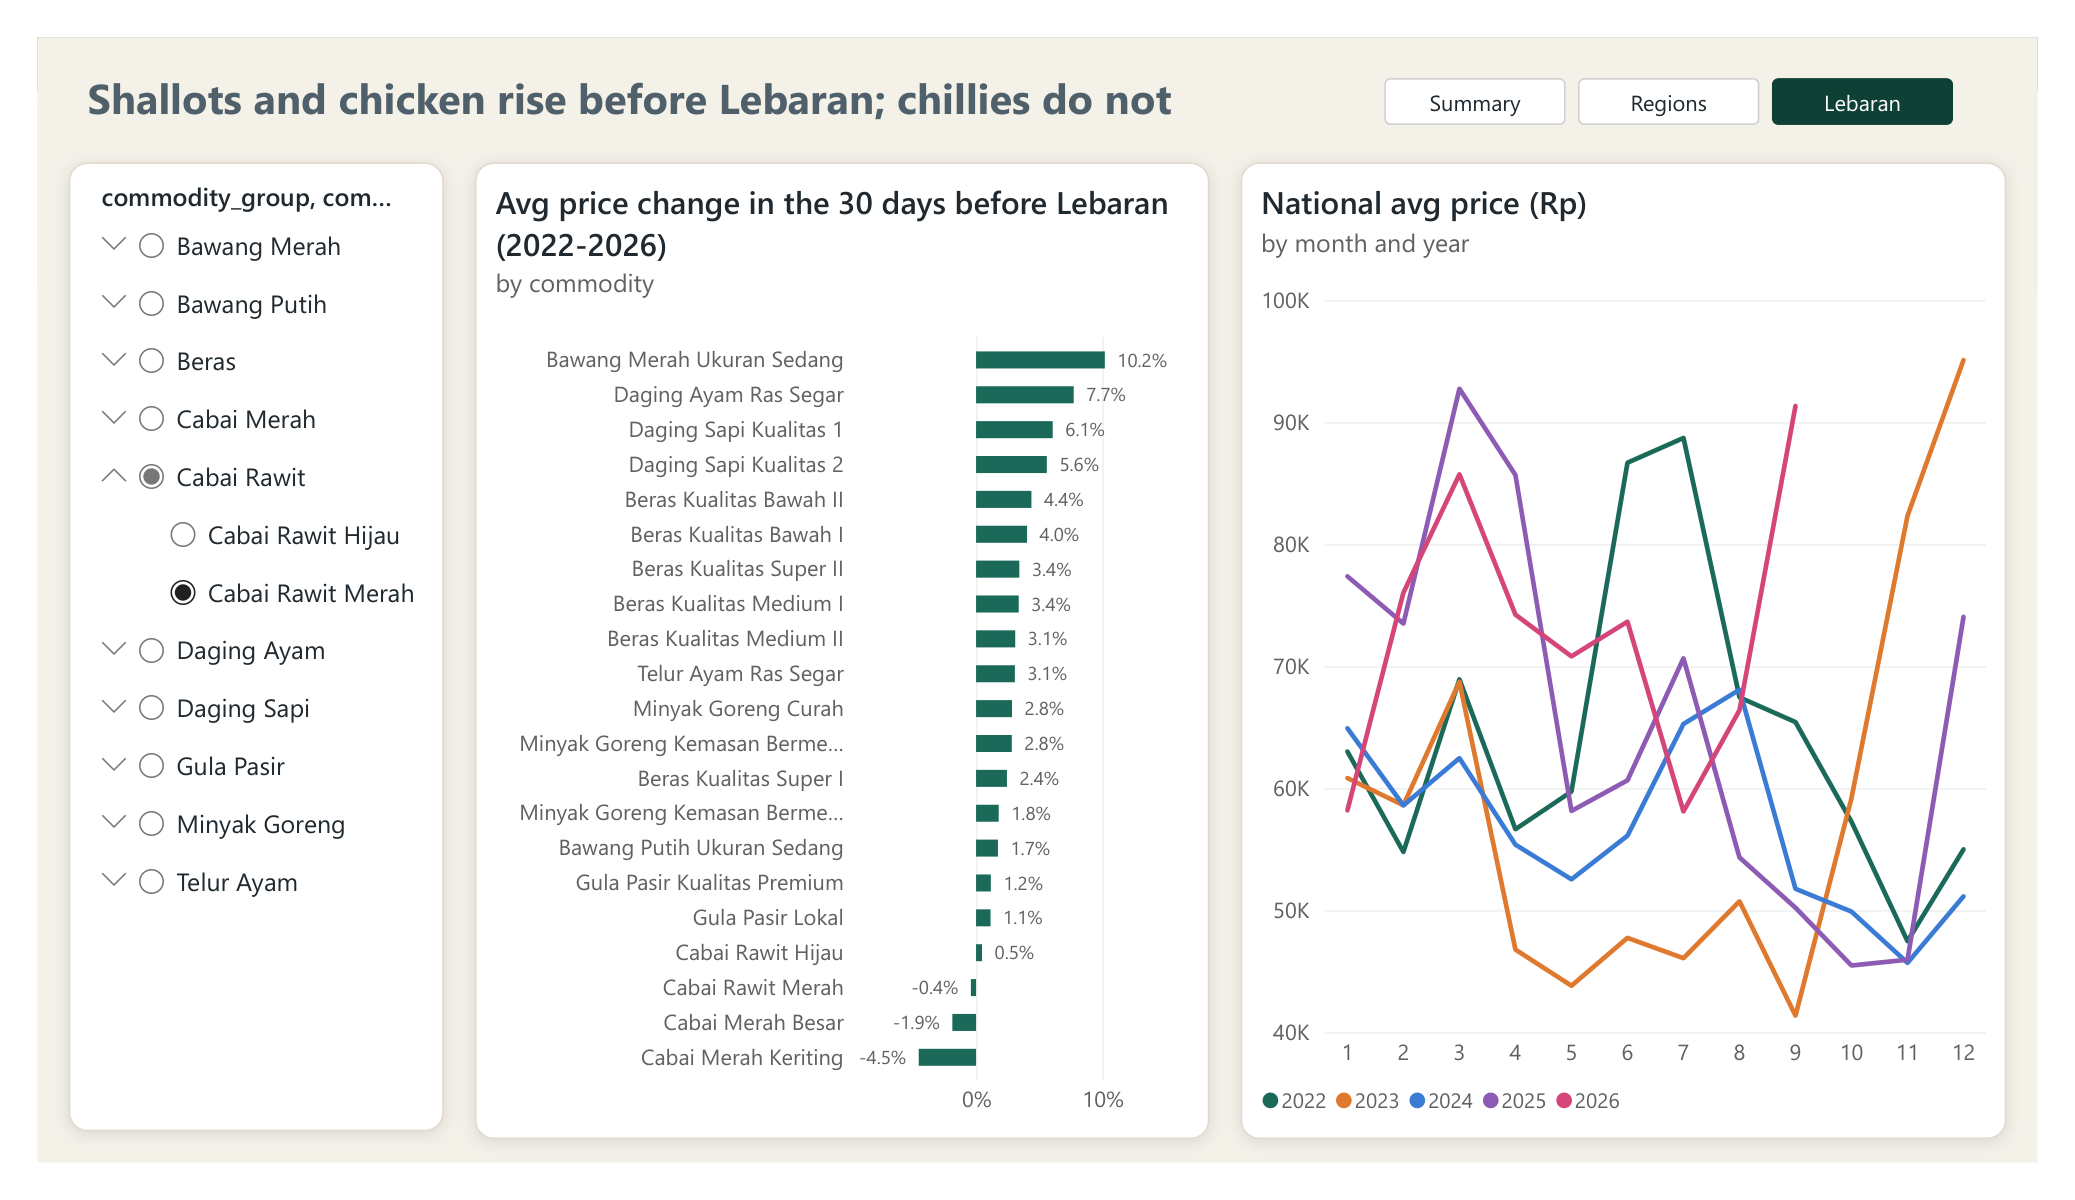
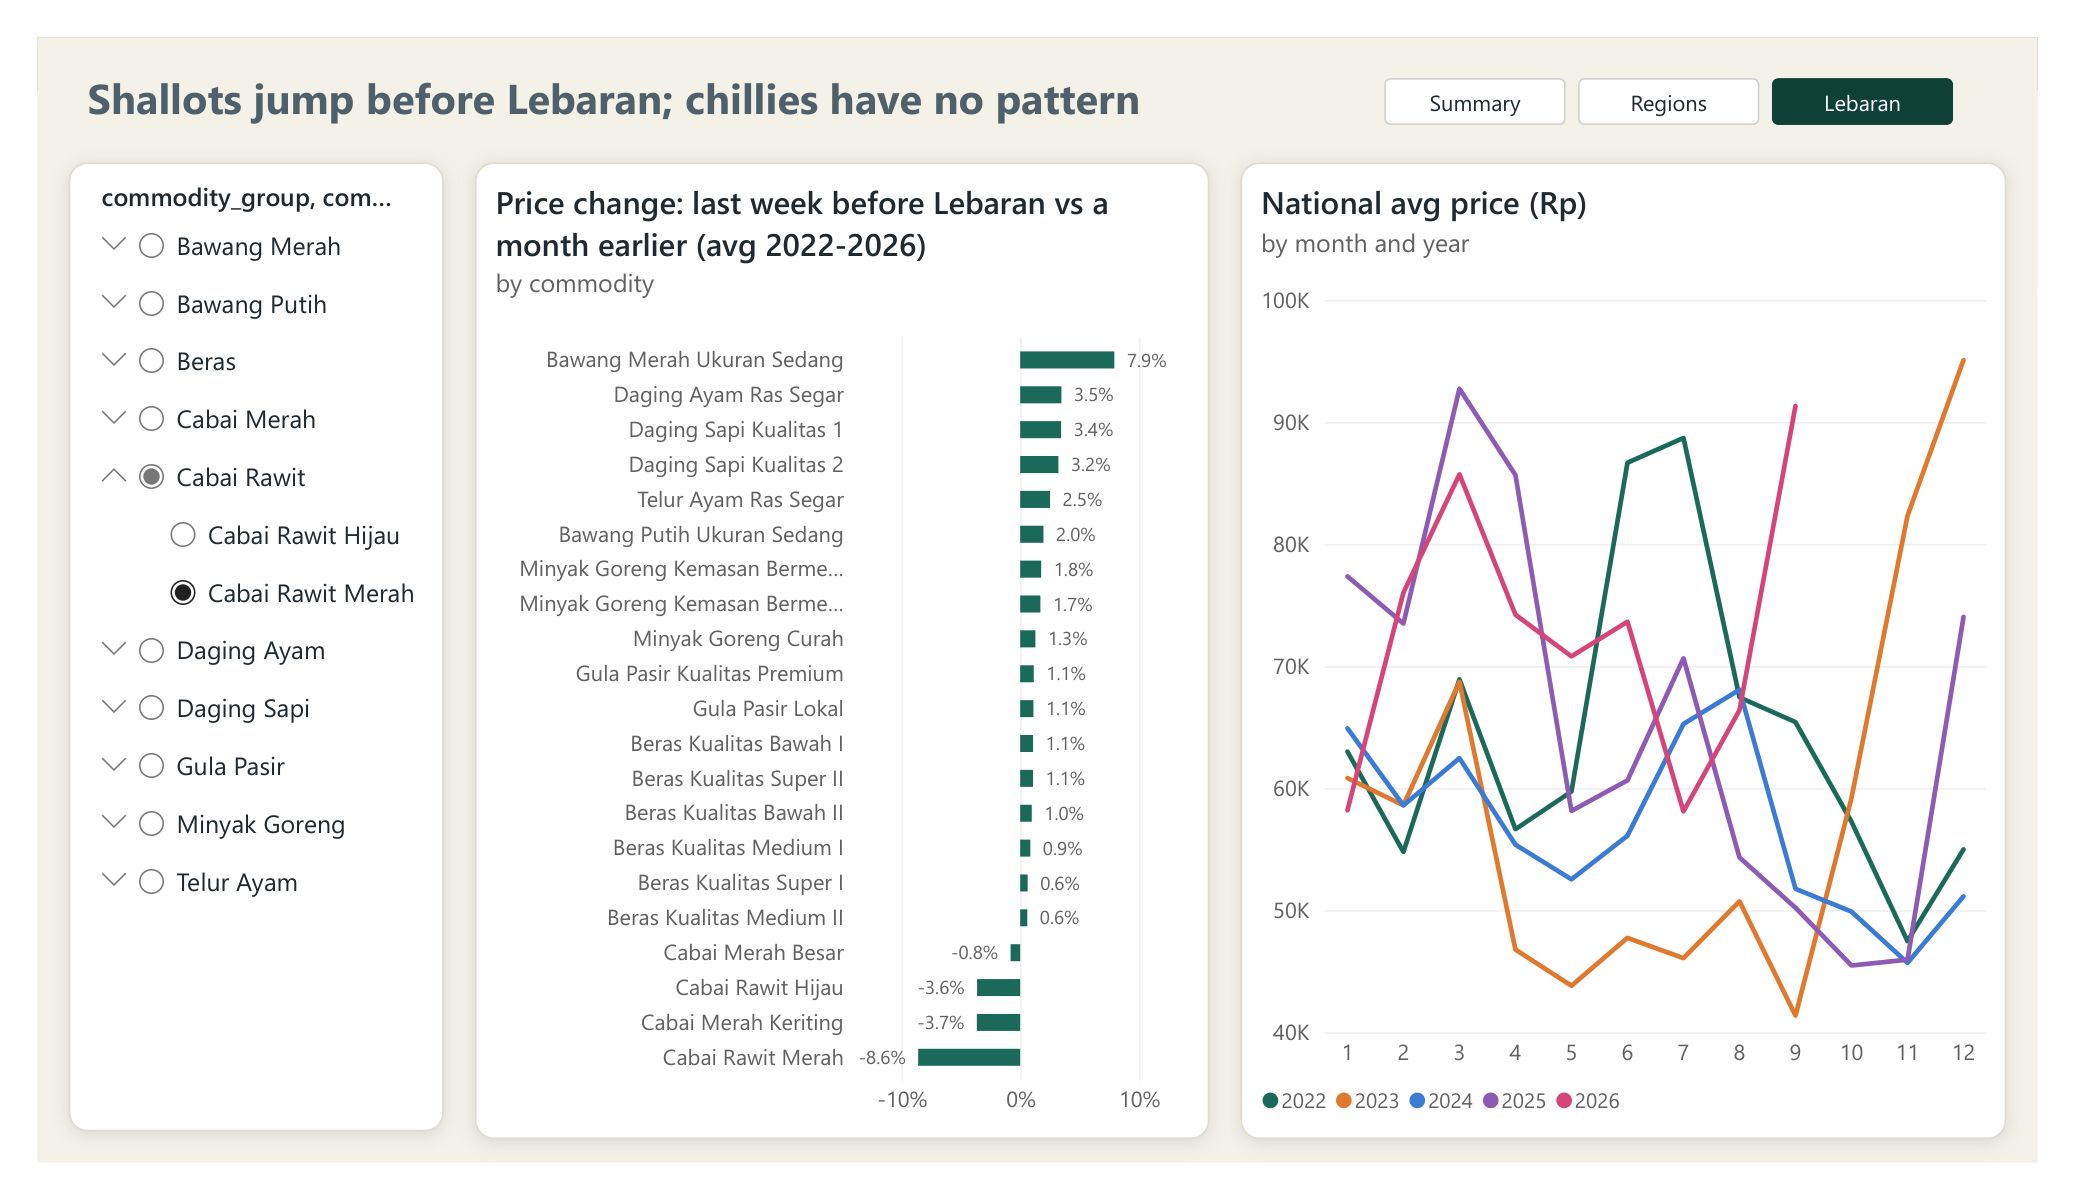
Use 7-day averages for the Lebaran effect, add memo
A single-day comparison picked up a one-day reporting spike before the 2022
holiday (rice 10,450 -> 12,750 -> normal), which inflated chicken and rice.

diff --git a/build_model.py b/build_model.py
@@ -92,10 +92,13 @@ FROM latest l JOIN nat n USING (com_id)
 WHERE l.region <> 'Semua Provinsi';
 
 -- KPIs: Lebaran effect (national) ----------------------------------------
+-- Compare 7-day averages, not single days: on the last working day before the
+-- holiday few markets report, and the national average can jump for one day
+-- (rice on 29 Apr 2022: 10,450 -> 12,750 -> back to normal).
 CREATE OR REPLACE TABLE kpi_lebaran AS
 SELECT f.com_id, year(l.lebaran_date) AS year, l.lebaran_date,
-       arg_max(f.price, f.date) FILTER (WHERE f.date <= l.lebaran_date - INTERVAL 30 DAY) AS price_d30,
-       arg_max(f.price, f.date) FILTER (WHERE f.date <  l.lebaran_date)                   AS price_d1,
+       avg(f.price) FILTER (WHERE f.date BETWEEN l.lebaran_date - INTERVAL 37 DAY AND l.lebaran_date - INTERVAL 31 DAY) AS price_d30,
+       avg(f.price) FILTER (WHERE f.date BETWEEN l.lebaran_date - INTERVAL 7 DAY AND l.lebaran_date - INTERVAL 1 DAY)   AS price_d1,
        price_d1 / price_d30 - 1 AS change_30d_before
 FROM fact_price f JOIN lebaran l ON f.date BETWEEN l.lebaran_date - INTERVAL 45 DAY AND l.lebaran_date
 WHERE f.region = 'Semua Provinsi'

diff --git a/Memo.md b/Memo.md
@@ -1,0 +1,59 @@
+# Memo: Where Indonesia's staple-food price risk sits, and what to watch before Lebaran
+
+**To:** Food procurement and pricing leads, or a regional inflation-control team (illustrative)
+**Data:** Bank Indonesia PIHPS Nasional, traditional-market prices. 21 commodities, national level and 34 provinces, daily from 3 Jan 2022 to 25 Sep 2026 (864,235 rows).
+
+## Bottom line
+
+Staple-food price risk is concentrated in **chillies**. Most other staples are stable.
+
+- The national price of cabai rawit merah is Rp 96,450/kg. That is up 30.3% in a month and 91.7% in a year.
+- Every staple other than chillies moved less than 10% in the last year.
+- All 20 active weekly price alerts are chillies. An alert is a province where a price moved more than 10% in one week.
+
+**Lebaran matters most for shallots.** Chillies do not follow the holiday at all, so plan for them separately.
+
+## Evidence
+
+**1. Volatility.** Daily price volatility over the last 90 days (national):
+
+| Commodity | 90-day volatility | Change in 1 year |
+|---|---|---|
+| Cabai rawit merah | 2.09% a day | +91.7% |
+| Cabai merah keriting | 1.53% a day | +15.3% |
+| Cabai merah besar | 1.04% a day | +6.7% |
+| Bawang merah (shallots) | 0.69% a day | −9.8% |
+| Every other staple | lower | below +10% |
+
+**2. Regional gap.** Chillies cost far more in eastern Indonesia:
+
+- Maluku Utara pays **2.3 times** the national price for cabai merah besar, and 2.2 times for cabai rawit hijau.
+- For cabai rawit merah, Maluku Utara and Gorontalo are about 60% above the national price.
+- NTB and Jawa Timur are among the cheapest provinces: 32–51% below the national price for these chillies.
+
+**3. Before Lebaran.** The measure compares the last week before Lebaran with a month earlier, for 2022–2026:
+
+| Commodity | Average | Years with a rise above 2% | By year (2022 to 2026) |
+|---|---|---|---|
+| Shallots | +7.9% | 3 of 5 | +8.0, −1.9, +12.3, +21.2, 0.0 |
+| Beef (quality 2) | +3.2% | 3 of 5, and positive every year | +7.2, +1.7, +1.3, +2.4, +3.5 |
+| Chicken | +3.5% | 2 of 5 | +13.6, +1.7, −0.8, −0.2, +3.2 |
+| Rice (all grades) | about +1% | at most 1 of 5 | small |
+| Cabai rawit merah | −8.6% | 2 of 5 | −13.8, −38.0, −20.0, +10.2, +18.7 |
+
+## Recommendations
+
+1. **Hedge shallots before Lebaran.** The rise has been +8% to +21% in 3 of the last 5 years. Buy or contract shallots about 5 weeks before the holiday rather than in the last week.
+2. **Treat chillies as a weekly risk, not a seasonal one.**
+   - Use the weekly alert (a move above 10%) as the trigger to review prices and purchase quantities.
+   - Chilli prices swing by ±20–40% around Lebaran, in both directions, so a calendar rule does not work for them.
+3. **Source eastern provinces differently.** Chillies cost roughly 40–60% above the national price in Maluku Utara, Gorontalo and Papua, and up to 2.3 times it in Maluku Utara. This points to transport and supply-chain cost, not just seasonality. Compare local sourcing with inter-island shipping for these regions.
+4. **Keep beef and rice on a light watch.** They move a little before Lebaran, typically +1% to +3%. That is small enough for normal budget buffers.
+
+## Caveats
+
+- **Prices:** these are PIHPS traditional-market averages. Retail and modern-market prices differ.
+- **Lebaran effect:** it rests on only five holidays. Read it as a pattern, not as a forecast.
+- **Data-quality correction:** on the working day just before a long holiday, few markets report and the national average can spike for one day. For example, the national rice average read Rp 12,750 on 29 Apr 2022, against about Rp 10,450 on the days around it. For this reason the Lebaran figures use 7-day averages. An earlier single-day version overstated the effect for chicken (+7.7%) and rice (+15–21%).
+- **Scope:** this analysis does not model weather or harvest, which drive chilli prices. That is the next step.
+- **Independence:** this is independent analysis of public data and is not affiliated with any company.

diff --git a/README.md b/README.md
@@ -10,13 +10,12 @@ An automated pipeline and Power BI dashboard that tracks the daily prices of 21 
 
 1. **Chillies are the main price risk.** The national price of cabai rawit merah is Rp 96,450/kg. That is 30.3% higher than a month ago and 91.7% higher than a year ago. Every staple other than chillies moved less than 10% year on year.
 2. **Chillies cost much more in eastern Indonesia.** In Maluku Utara, cabai merah besar costs 2.3 times the national average. Cabai rawit hijau costs 2.2 times the national average there. For cabai rawit merah, Maluku Utara and Gorontalo are about 60% above the national price.
-3. **Some foods rise before Lebaran every year.** Over the five Lebarans from 2022 to 2026, the national price rose in the 30 days before Lebaran by these averages:
-   - shallots: +10.2%
-   - broiler chicken: +7.7%
-   - beef: about +6%
-
-   Chillies showed no consistent pre-Lebaran rise.
-4. **20 province-level alerts** are active. An alert means the price moved more than 10% in one week.
+3. **Shallots jump before Lebaran; chillies have no pattern.** The measure compares the national price in the last week before Lebaran with the price a month earlier, over the five Lebarans from 2022 to 2026:
+   - **Shallots:** +7.9% on average. They rose in 3 of the 5 years: +8%, +12% and +21%.
+   - **Beef:** about +3%. The rise is small, but it happened every year.
+   - **Chicken:** +3.5% on average. Most of that comes from 2022; the other years were close to 0.
+   - **Chillies:** anywhere from -38% to +19%, so there is no pre-Lebaran pattern.
+4. **All 20 active price alerts are chillies.** An alert is a province where a price moved more than 10% in one week.
 
 ![Regional disparity](images/02_regional_disparity.png)
 ![Seasonality and Lebaran](images/03_seasonality_lebaran.png)
@@ -47,12 +46,14 @@ bi.go.id PIHPS JSON  ->  scrape_pihps.py  ->  prices_daily.csv (864k rows)
   - 90-day volatility
   - weekly alert flag
   - gap from the national price in each province
-  - price change in the 30 days before each Lebaran
+  - Lebaran effect: the average price in the last 7 days before Lebaran vs the 7 days around a month earlier
 
 **Data-quality checks** (in `public/dq_checks.csv`):
 - 0 duplicate commodity-region-day rows
 - 0 non-positive prices
 - 130 daily jumps above 50%, kept and flagged for review
+
+**Lesson from the checks.** The first version compared single days (the day before Lebaran vs 30 days earlier). On the last working day before the 2022 holiday, few markets reported. On that day the national rice price jumped from Rp 10,450 to Rp 12,750, and it returned to normal after the holiday. That one day inflated the 2022 figures: chicken showed +7.7% on average, driven by a single +38.6% reading in 2022. The final measure compares 7-day averages, which absorbs one-day spikes.
 
 **Power BI report** (3 pages, shown in the screenshots)
 - The data is loaded as a star schema.
